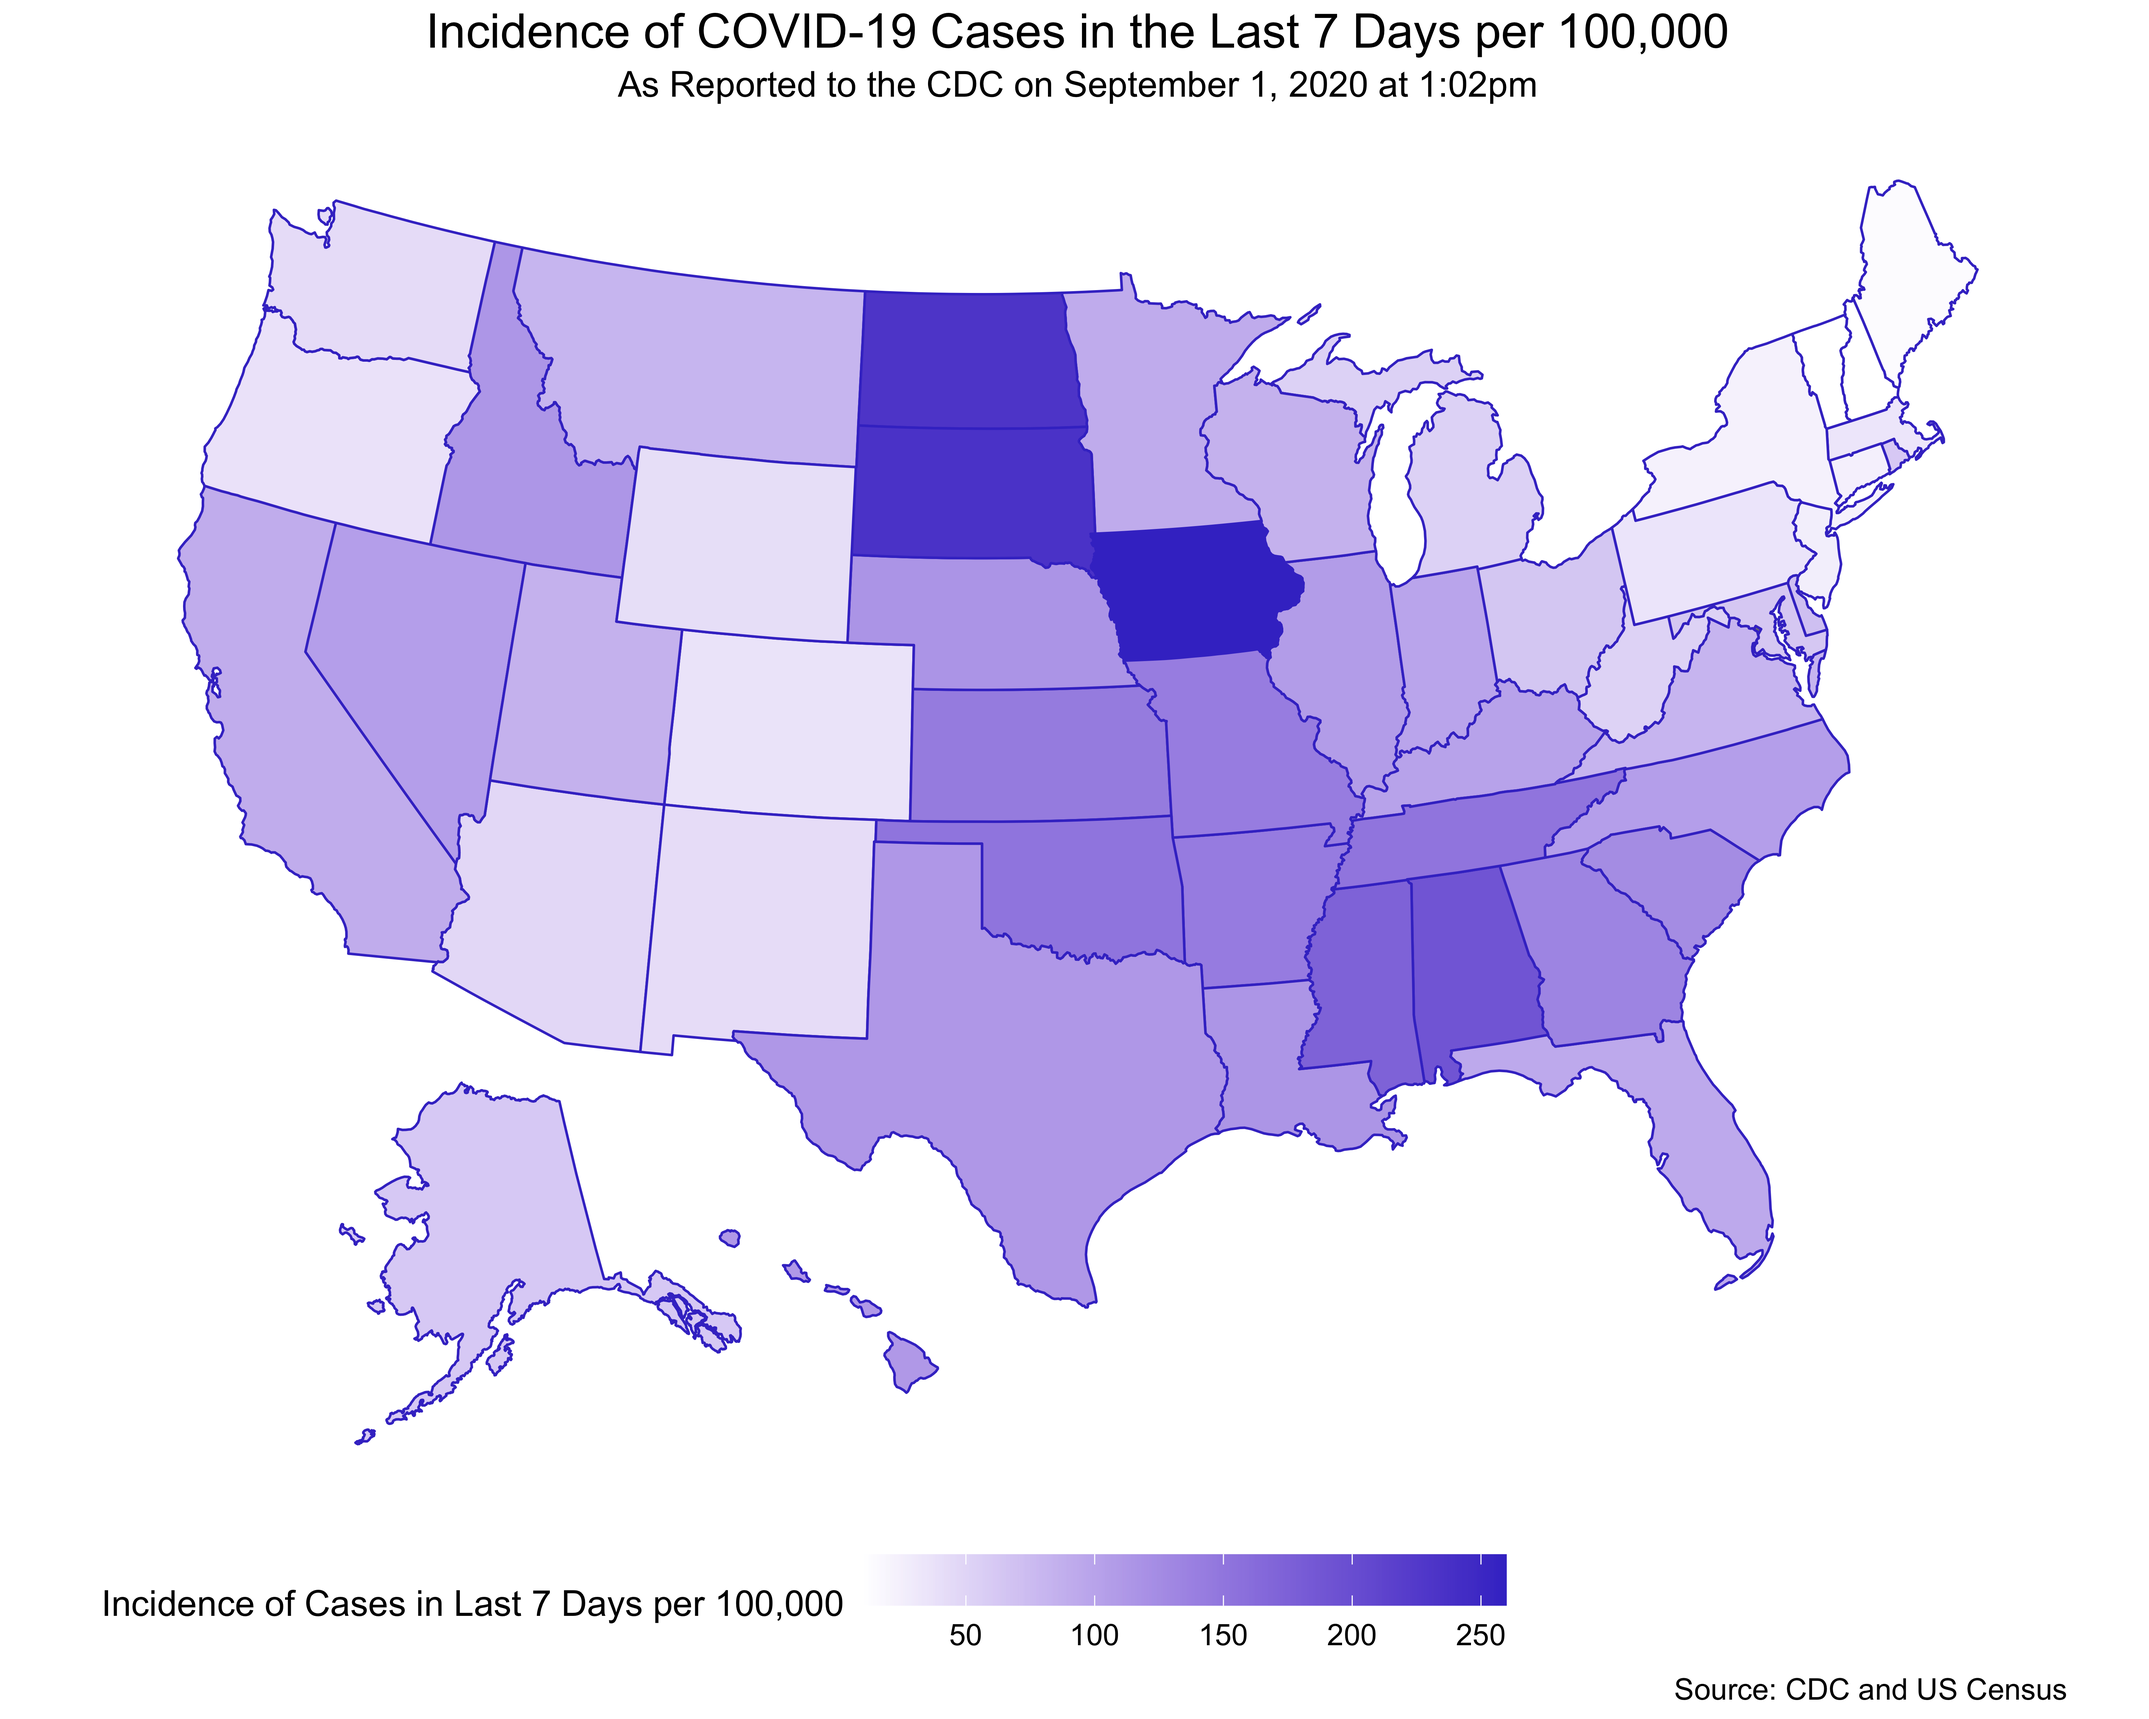
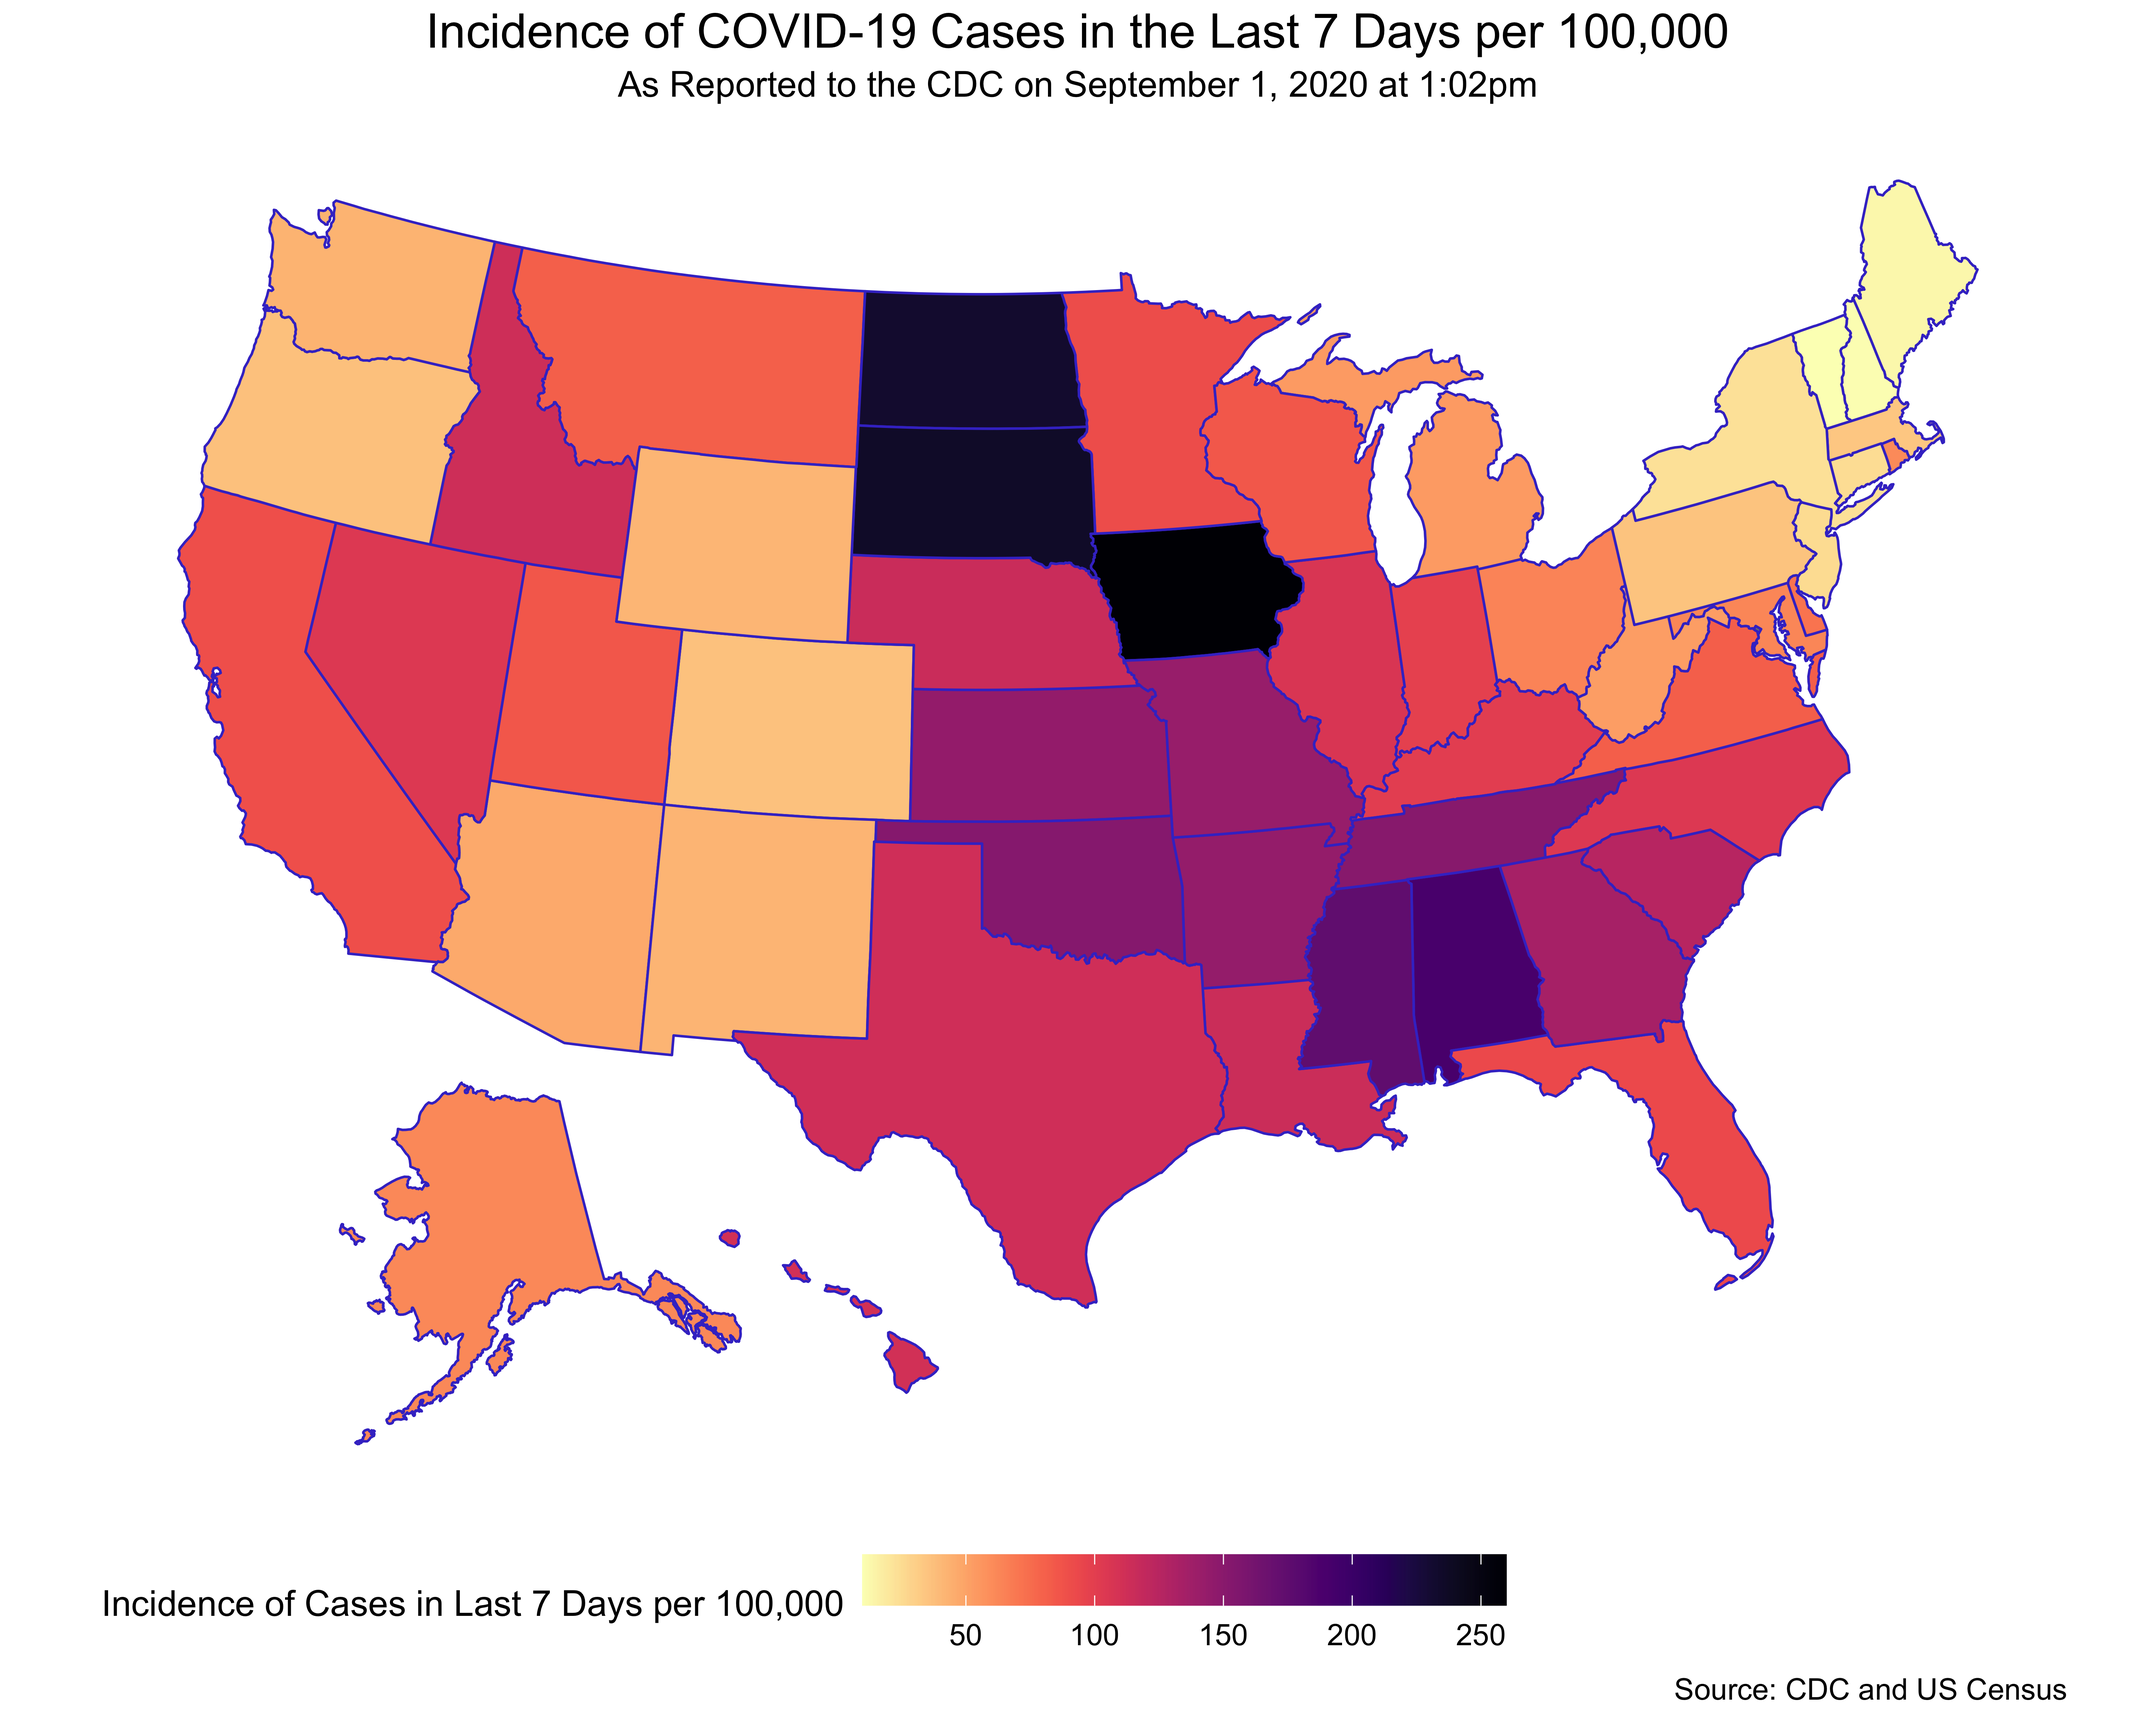
Change map colors and start graphing metrics

diff --git a/README.md b/README.md
@@ -12,7 +12,7 @@ The purpose of this project is to use data on COVID-19 cases from a few sources 
 
 **R Version:** 4.0.3
 
-**Packages:** [tidyverse](https://www.tidyverse.org/), [usmap](https://cran.r-project.org/web/packages/usmap/usmap.pdf)
+**Packages:** [tidyverse](https://www.tidyverse.org/), [usmap](https://cran.r-project.org/web/packages/usmap/usmap.pdf), [viridis](https://cran.r-project.org/web/packages/viridis/vignettes/intro-to-viridis.html)
 
 **Note:** Code was written using a macOS operating system, backslashes will need to be changed for use on a Windows operating system.
 
